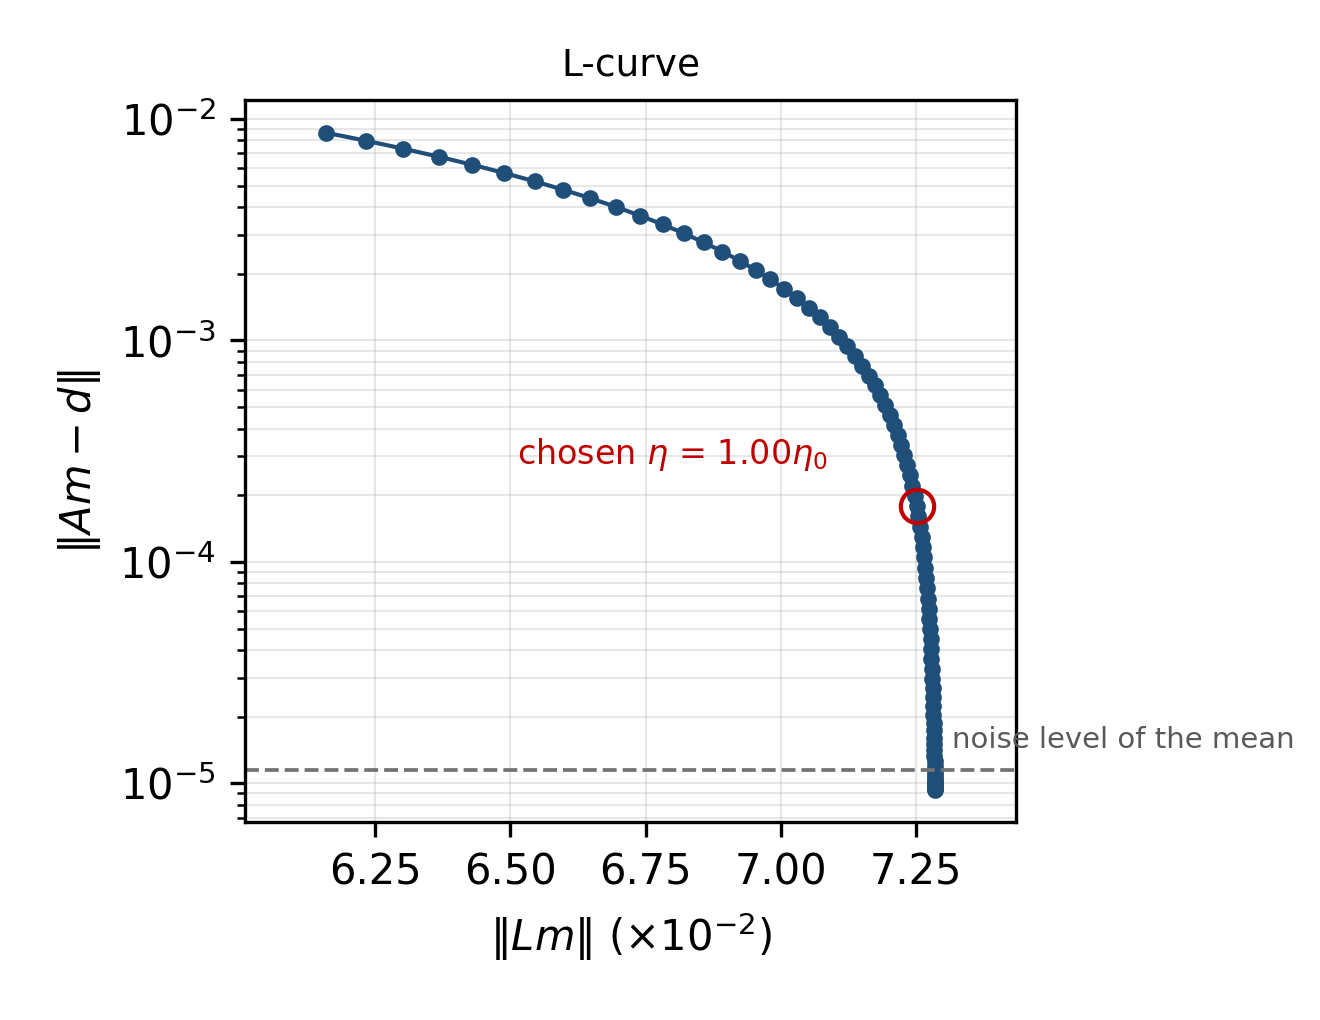
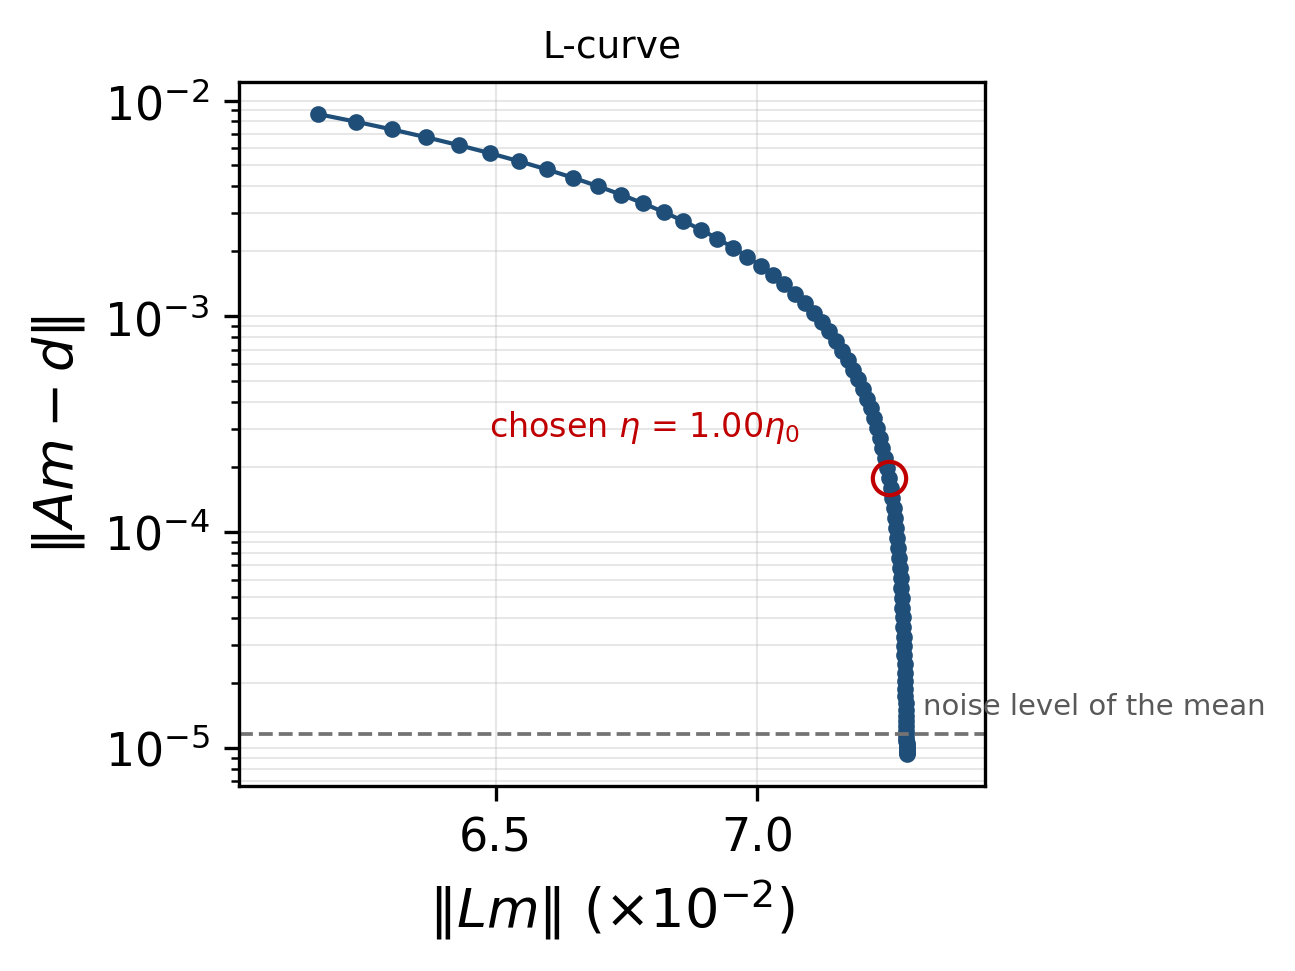
style: legible figure defaults and regenerated figures

diff --git a/src/common.py b/src/common.py
@@ -54,3 +54,22 @@ def assert_close(value, target, tol, label):
     print(f"  [{'PASS' if ok else 'FAIL'}] {label}: {value:.6g} vs {target:.6g} (tol {tol:g})")
     assert ok, f"{label} failed: {value} vs {target}"
     return ok
+
+
+def style() -> None:
+    """Print-legible defaults: the report embeds each figure near its native size."""
+    import matplotlib
+    matplotlib.use("Agg")
+    matplotlib.rcParams.update({
+        "font.size": 12,
+        "axes.titlesize": 12,
+        "axes.labelsize": 13,
+        "xtick.labelsize": 11,
+        "ytick.labelsize": 11,
+        "legend.fontsize": 10,
+        "axes.linewidth": 0.8,
+        "grid.alpha": 0.35,
+        "figure.dpi": 300,
+        "savefig.dpi": 300,
+        "savefig.bbox": "tight",
+    })

diff --git a/src/l1.py b/src/l1.py
@@ -12,7 +12,7 @@ from __future__ import annotations
 
 import numpy as np
 
-from common import E_CHARGE, E_MAX, KB_EV, N_A, DEFAULT_T, fermi_dirac, grid, trapz
+from common import style, E_CHARGE, E_MAX, KB_EV, N_A, DEFAULT_T, fermi_dirac, grid, trapz
 
 _E = grid()
 _CACHE: dict[tuple, float] = {}
@@ -115,6 +115,7 @@ def figure(params: dict, out_png: str) -> None:
     os.environ.setdefault("MPLCONFIGDIR",
                           os.path.join(os.path.dirname(os.path.dirname(os.path.abspath(__file__))), ".mplconfig"))
     matplotlib.use("Agg")
+    style()
     import matplotlib.pyplot as plt
 
     c, T = params["c"], float(params["T"])

diff --git a/src/l2.py b/src/l2.py
@@ -28,7 +28,7 @@ import os
 
 import numpy as np
 
-from common import E_CHARGE, KB_EV, N_A, trapz
+from common import style, E_CHARGE, KB_EV, N_A, trapz
 
 E_HALF = 2.5          # eV, symmetric DOS window
 N_E = 4000
@@ -247,6 +247,7 @@ def figures(root: str, res: dict, outdir: str) -> None:
     os.environ.setdefault("MPLCONFIGDIR",
                           os.path.join(os.path.dirname(os.path.dirname(os.path.abspath(__file__))), ".mplconfig"))
     matplotlib.use("Agg")
+    style()
     import matplotlib.pyplot as plt
 
     params = json.load(open(os.path.join(root, "L1_params.json"), encoding="utf-8"))

diff --git a/src/l3.py b/src/l3.py
@@ -19,6 +19,8 @@ import os
 
 import numpy as np
 
+from common import style
+
 NPIX = 10
 N = NPIX * NPIX
 TAU = 0.030            # announced uniformity spec, 3.0 per cent of reference
@@ -374,6 +376,7 @@ def figures(root: str, res: dict, outdir: str) -> None:
     os.environ.setdefault("MPLCONFIGDIR",
                           os.path.join(os.path.dirname(os.path.dirname(os.path.abspath(__file__))), ".mplconfig"))
     matplotlib.use("Agg")
+    style()
     import matplotlib.pyplot as plt
 
     grid = np.asarray(res["map"]).reshape(NPIX, NPIX)
